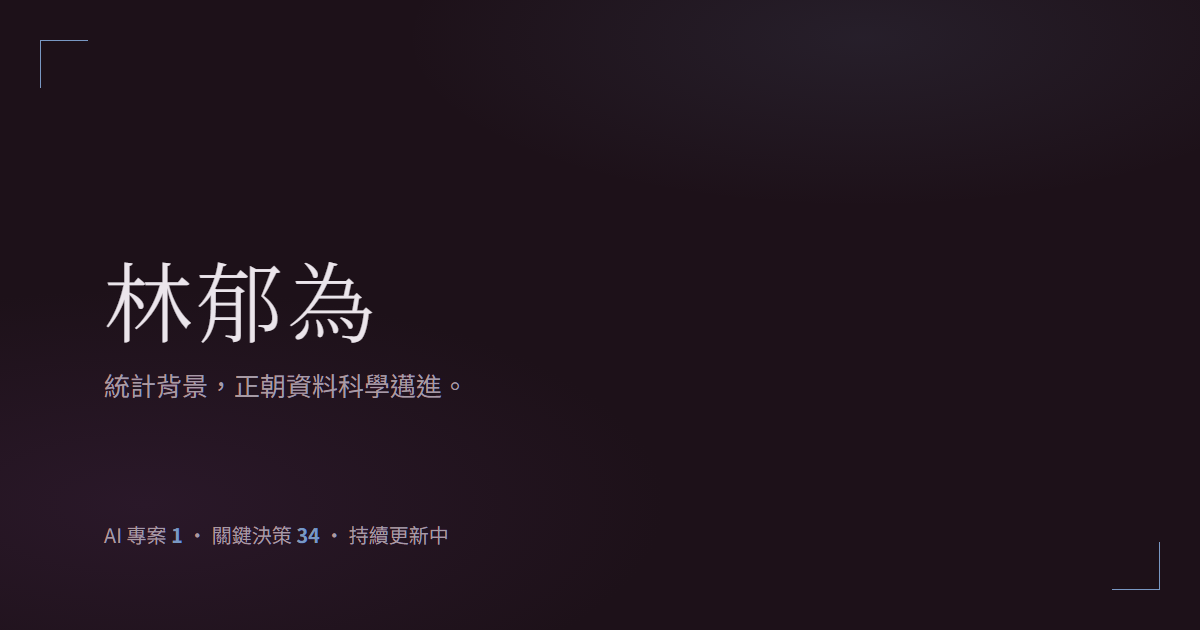
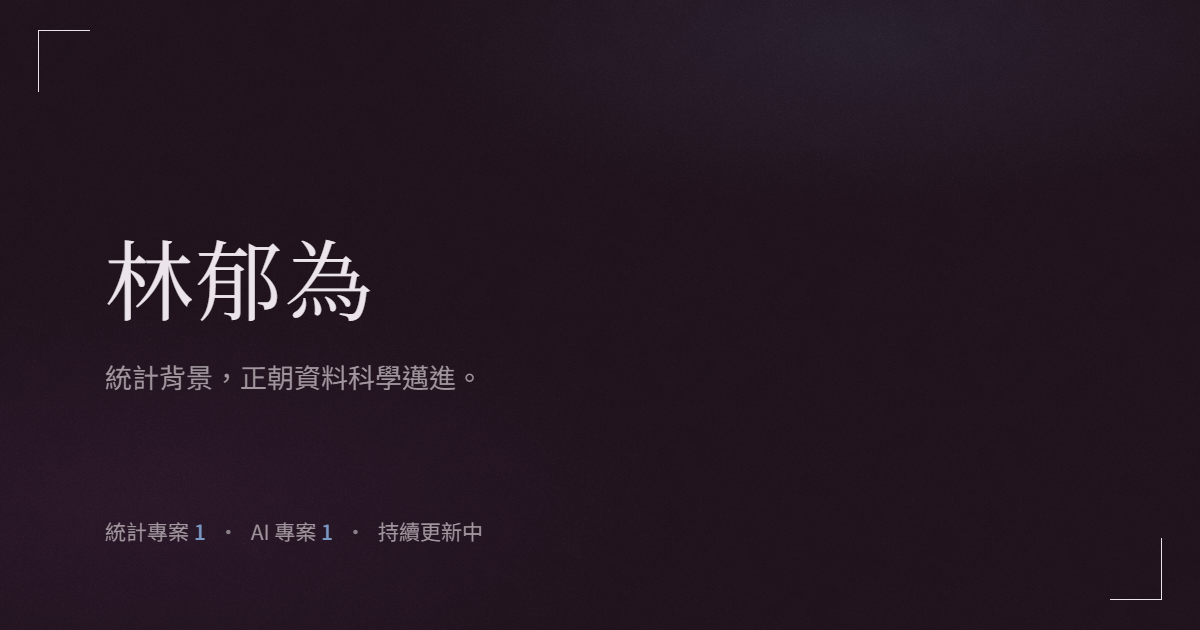
票 06：第 9 版版次資產
版次角標進位到第 9 版，比對截圖與分享卡重新生成。

shoot-assets 的首頁那張補上 --force-prefers-reduced-motion。母題是常駐 rAF
迴圈，而 --virtual-time-budget 遇到常駐迴圈幾乎不前進，[data-reveal] 的
0.35s 淡入永遠跑不完——不補這個旗標，拍出來的首頁會只剩一個 h1。
加了之後淡入直接到位，母題畫在 breath(0)，那恰好是呼吸中點。

新增 scripts/shoot-og-card.mjs：分享卡原本是 2026-07-19 的手工 PNG，
換色協議寫著「og-card 需重生成」但沒有東西生得出來，這支補上那個洞。
卡連的是建置產出的 global.css，色與字自動吃站上真正的 token，
不會變成第二套色碼定義。

卡的內容依郁為指示改成「統計專案 N · AI 專案 N · 持續更新中」。
數量從標題的 #N 前綴推，數的是不同專案而不是檔案數——觀光那四篇是
同一個專案的 #1-1～#1-4，數檔案會在卡上印出假數字。

過程中踩到看板記過的同一個坑：卡的 class 取名 .card，直接撞上 global.css
的卡片元件，底色被靜默蓋成 --n-200，整張卡變成淺紫灰。已全部改為 og- 前綴。

閘門七類全綠、自我檢查 16 例全過。

diff --git a/src/content/projects/ai/portfolio-site.md b/src/content/projects/ai/portfolio-site.md
@@ -6,7 +6,7 @@ tags: [AI 協作, Claude Code, Astro, 決策紀錄]
 links:
   github: https://github.com/xup6m4jo6222/xup6m4jo6222.github.io
 date: 2026-07-16
-cover: /images/portfolio-site/current-v8.png
+cover: /images/portfolio-site/current-v9.png
 ---
 
 <p class="cs-lead">我將「創建個人作品頁」作為第一個正式 AI 專案，下面會簡單呈現網站被建立的過程。</p>
@@ -16,11 +16,11 @@ cover: /images/portfolio-site/current-v8.png
 <figure class="cs-wipe" style="margin:0">
   <img src="/images/portfolio-site/rejected-v1.png" alt="初版首頁，金色點綴與紙紋理" width="760" height="470" />
   <div class="cs-wipe-top">
-    <img src="/images/portfolio-site/current-v8.png" alt="現行首頁，第8版視覺" width="760" height="470" />
+    <img src="/images/portfolio-site/current-v9.png" alt="現行首頁，第9版視覺" width="760" height="470" />
   </div>
   <input type="range" min="0" max="100" value="55" aria-label="拖曳比對兩個版本" />
   <div class="cs-wipe-handle"></div>
-  <span class="cs-wipe-tag cs-wipe-tag--new" style="left:0.6rem;right:auto">最終版 2026-07-26 第8版</span>
+  <span class="cs-wipe-tag cs-wipe-tag--new" style="left:0.6rem;right:auto">最終版 2026-07-28 第9版</span>
   <span class="cs-wipe-tag cs-wipe-tag--old" style="right:0.6rem;left:auto">初版 2026-07-08 第1版</span>
 </figure>
 <p class="cs-wipe-hint">初版是由 AI 主導生成的頁面，有明顯的 AI 痕跡。</p>
@@ -81,11 +81,11 @@ cover: /images/portfolio-site/current-v8.png
     <figure class="cs-wipe cs-wipe--embed" style="margin:0">
       <img src="/images/portfolio-site/page-plain-text.png" alt="被否決的純文字版" width="760" height="470" loading="lazy" />
       <div class="cs-wipe-top">
-        <img src="/images/portfolio-site/page-timeline-v8.png" alt="現行時間軸版" width="760" height="470" loading="lazy" />
+        <img src="/images/portfolio-site/page-timeline-v9.png" alt="現行時間軸版" width="760" height="470" loading="lazy" />
       </div>
       <input type="range" min="0" max="100" value="55" aria-label="拖曳比對兩個版本" />
       <div class="cs-wipe-handle"></div>
-      <span class="cs-wipe-tag cs-wipe-tag--new" style="left:0.6rem;right:auto">時間軸版 2026-07-26 第8版</span>
+      <span class="cs-wipe-tag cs-wipe-tag--new" style="left:0.6rem;right:auto">時間軸版 2026-07-28 第9版</span>
       <span class="cs-wipe-tag cs-wipe-tag--old" style="right:0.6rem;left:auto">純文字版 2026-07-16 第1版</span>
     </figure>
   </li>
